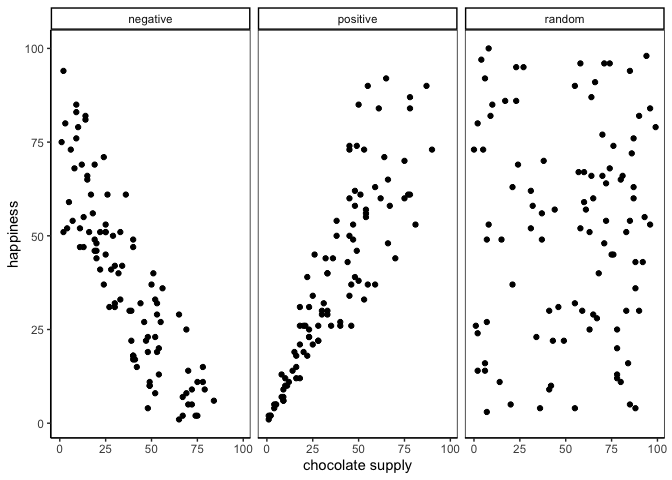
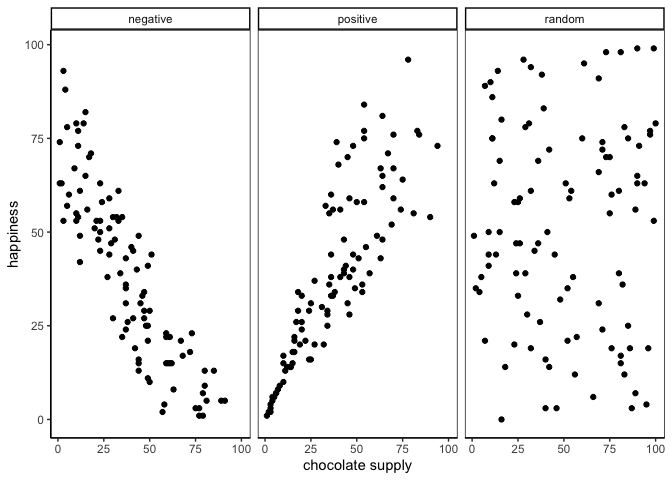
Updated html

diff --git a/docs/03-Correlation.html b/docs/03-Correlation.html
@@ -378,8 +378,8 @@ window.Quarto = {
 </tr>
 <tr class="even">
 <td style="text-align: right;">2</td>
-<td style="text-align: right;">2</td>
 <td style="text-align: right;">1</td>
+<td style="text-align: right;">2</td>
 </tr>
 <tr class="odd">
 <td style="text-align: right;">3</td>
@@ -389,7 +389,7 @@ window.Quarto = {
 <tr class="even">
 <td style="text-align: right;">4</td>
 <td style="text-align: right;">3</td>
-<td style="text-align: right;">4</td>
+<td style="text-align: right;">3</td>
 </tr>
 <tr class="odd">
 <td style="text-align: right;">5</td>
@@ -398,27 +398,27 @@ window.Quarto = {
 </tr>
 <tr class="even">
 <td style="text-align: right;">6</td>
-<td style="text-align: right;">6</td>
-<td style="text-align: right;">5</td>
+<td style="text-align: right;">4</td>
+<td style="text-align: right;">4</td>
 </tr>
 <tr class="odd">
 <td style="text-align: right;">7</td>
 <td style="text-align: right;">5</td>
-<td style="text-align: right;">6</td>
+<td style="text-align: right;">7</td>
 </tr>
 <tr class="even">
 <td style="text-align: right;">8</td>
+<td style="text-align: right;">8</td>
 <td style="text-align: right;">7</td>
-<td style="text-align: right;">4</td>
 </tr>
 <tr class="odd">
 <td style="text-align: right;">9</td>
-<td style="text-align: right;">5</td>
 <td style="text-align: right;">7</td>
+<td style="text-align: right;">9</td>
 </tr>
 <tr class="even">
 <td style="text-align: right;">10</td>
-<td style="text-align: right;">9</td>
+<td style="text-align: right;">6</td>
 <td style="text-align: right;">9</td>
 </tr>
 </tbody>
@@ -522,8 +522,8 @@ Note
 </tr>
 <tr class="even">
 <td style="text-align: left;">2</td>
-<td style="text-align: left;">2</td>
 <td style="text-align: left;">1</td>
+<td style="text-align: left;">2</td>
 <td style="text-align: left;">2</td>
 </tr>
 <tr class="odd">
@@ -535,8 +535,8 @@ Note
 <tr class="even">
 <td style="text-align: left;">4</td>
 <td style="text-align: left;">3</td>
-<td style="text-align: left;">4</td>
-<td style="text-align: left;">12</td>
+<td style="text-align: left;">3</td>
+<td style="text-align: left;">9</td>
 </tr>
 <tr class="odd">
 <td style="text-align: left;">5</td>
@@ -546,45 +546,45 @@ Note
 </tr>
 <tr class="even">
 <td style="text-align: left;">6</td>
-<td style="text-align: left;">6</td>
-<td style="text-align: left;">5</td>
-<td style="text-align: left;">30</td>
-</tr>
-<tr class="odd">
-<td style="text-align: left;">7</td>
-<td style="text-align: left;">5</td>
-<td style="text-align: left;">6</td>
-<td style="text-align: left;">30</td>
-</tr>
-<tr class="even">
-<td style="text-align: left;">8</td>
-<td style="text-align: left;">7</td>
 <td style="text-align: left;">4</td>
-<td style="text-align: left;">28</td>
+<td style="text-align: left;">4</td>
+<td style="text-align: left;">16</td>
 </tr>
 <tr class="odd">
-<td style="text-align: left;">9</td>
+<td style="text-align: left;">7</td>
 <td style="text-align: left;">5</td>
 <td style="text-align: left;">7</td>
 <td style="text-align: left;">35</td>
 </tr>
 <tr class="even">
+<td style="text-align: left;">8</td>
+<td style="text-align: left;">8</td>
+<td style="text-align: left;">7</td>
+<td style="text-align: left;">56</td>
+</tr>
+<tr class="odd">
+<td style="text-align: left;">9</td>
+<td style="text-align: left;">7</td>
+<td style="text-align: left;">9</td>
+<td style="text-align: left;">63</td>
+</tr>
+<tr class="even">
 <td style="text-align: left;">10</td>
+<td style="text-align: left;">6</td>
 <td style="text-align: left;">9</td>
-<td style="text-align: left;">9</td>
-<td style="text-align: left;">81</td>
+<td style="text-align: left;">54</td>
 </tr>
 <tr class="odd">
 <td style="text-align: left;">Sums</td>
-<td style="text-align: left;">44</td>
-<td style="text-align: left;">44</td>
-<td style="text-align: left;">243</td>
+<td style="text-align: left;">41</td>
+<td style="text-align: left;">49</td>
+<td style="text-align: left;">260</td>
 </tr>
 <tr class="even">
 <td style="text-align: left;">Means</td>
-<td style="text-align: left;">4.4</td>
-<td style="text-align: left;">4.4</td>
-<td style="text-align: left;">24.3</td>
+<td style="text-align: left;">4.1</td>
+<td style="text-align: left;">4.9</td>
+<td style="text-align: left;">26</td>
 </tr>
 </tbody>
 </table>
@@ -806,97 +806,97 @@ Figure&nbsp;3.3: Simulated sums of products showing the kinds of values than can
 <td style="text-align: left;">1</td>
 <td style="text-align: left;">1</td>
 <td style="text-align: left;">1</td>
-<td style="text-align: left;">-3.4</td>
-<td style="text-align: left;">-3.4</td>
-<td style="text-align: left;">11.56</td>
+<td style="text-align: left;">-3.1</td>
+<td style="text-align: left;">-3.9</td>
+<td style="text-align: left;">12.09</td>
 </tr>
 <tr class="even">
-<td style="text-align: left;">2</td>
 <td style="text-align: left;">2</td>
 <td style="text-align: left;">1</td>
-<td style="text-align: left;">-2.4</td>
-<td style="text-align: left;">-3.4</td>
-<td style="text-align: left;">8.16</td>
+<td style="text-align: left;">2</td>
+<td style="text-align: left;">-3.1</td>
+<td style="text-align: left;">-2.9</td>
+<td style="text-align: left;">8.99</td>
 </tr>
 <tr class="odd">
 <td style="text-align: left;">3</td>
 <td style="text-align: left;">2</td>
 <td style="text-align: left;">2</td>
-<td style="text-align: left;">-2.4</td>
-<td style="text-align: left;">-2.4</td>
-<td style="text-align: left;">5.76</td>
+<td style="text-align: left;">-2.1</td>
+<td style="text-align: left;">-2.9</td>
+<td style="text-align: left;">6.09</td>
 </tr>
 <tr class="even">
 <td style="text-align: left;">4</td>
 <td style="text-align: left;">3</td>
-<td style="text-align: left;">4</td>
-<td style="text-align: left;">-1.4</td>
-<td style="text-align: left;">-0.4</td>
-<td style="text-align: left;">0.56</td>
+<td style="text-align: left;">3</td>
+<td style="text-align: left;">-1.1</td>
+<td style="text-align: left;">-1.9</td>
+<td style="text-align: left;">2.09</td>
 </tr>
 <tr class="odd">
 <td style="text-align: left;">5</td>
 <td style="text-align: left;">4</td>
 <td style="text-align: left;">5</td>
-<td style="text-align: left;">-0.4</td>
-<td style="text-align: left;">0.6</td>
-<td style="text-align: left;">-0.24</td>
+<td style="text-align: left;">-0.1</td>
+<td style="text-align: left;">0.1</td>
+<td style="text-align: left;">-0.01</td>
 </tr>
 <tr class="even">
 <td style="text-align: left;">6</td>
-<td style="text-align: left;">6</td>
-<td style="text-align: left;">5</td>
-<td style="text-align: left;">1.6</td>
-<td style="text-align: left;">0.6</td>
-<td style="text-align: left;">0.96</td>
+<td style="text-align: left;">4</td>
+<td style="text-align: left;">4</td>
+<td style="text-align: left;">-0.1</td>
+<td style="text-align: left;">-0.9</td>
+<td style="text-align: left;">0.09</td>
 </tr>
 <tr class="odd">
 <td style="text-align: left;">7</td>
 <td style="text-align: left;">5</td>
-<td style="text-align: left;">6</td>
-<td style="text-align: left;">0.6</td>
-<td style="text-align: left;">1.6</td>
-<td style="text-align: left;">0.96</td>
+<td style="text-align: left;">7</td>
+<td style="text-align: left;">0.9</td>
+<td style="text-align: left;">2.1</td>
+<td style="text-align: left;">1.89</td>
 </tr>
 <tr class="even">
 <td style="text-align: left;">8</td>
+<td style="text-align: left;">8</td>
 <td style="text-align: left;">7</td>
-<td style="text-align: left;">4</td>
-<td style="text-align: left;">2.6</td>
-<td style="text-align: left;">-0.4</td>
-<td style="text-align: left;">-1.04</td>
+<td style="text-align: left;">3.9</td>
+<td style="text-align: left;">2.1</td>
+<td style="text-align: left;">8.19</td>
 </tr>
 <tr class="odd">
 <td style="text-align: left;">9</td>
-<td style="text-align: left;">5</td>
 <td style="text-align: left;">7</td>
-<td style="text-align: left;">0.6</td>
-<td style="text-align: left;">2.6</td>
-<td style="text-align: left;">1.56</td>
+<td style="text-align: left;">9</td>
+<td style="text-align: left;">2.9</td>
+<td style="text-align: left;">4.1</td>
+<td style="text-align: left;">11.89</td>
 </tr>
 <tr class="even">
 <td style="text-align: left;">10</td>
+<td style="text-align: left;">6</td>
 <td style="text-align: left;">9</td>
-<td style="text-align: left;">9</td>
-<td style="text-align: left;">4.6</td>
-<td style="text-align: left;">4.6</td>
-<td style="text-align: left;">21.16</td>
+<td style="text-align: left;">1.9</td>
+<td style="text-align: left;">4.1</td>
+<td style="text-align: left;">7.79</td>
 </tr>
 <tr class="odd">
 <td style="text-align: left;">Sums</td>
-<td style="text-align: left;">44</td>
-<td style="text-align: left;">44</td>
-<td style="text-align: left;">0</td>
-<td style="text-align: left;">0</td>
+<td style="text-align: left;">41</td>
 <td style="text-align: left;">49</td>
+<td style="text-align: left;">0</td>
+<td style="text-align: left;">0</td>
+<td style="text-align: left;">59</td>
 </tr>
 <tr class="even">
 <td style="text-align: left;">Means</td>
-<td style="text-align: left;">4.4</td>
-<td style="text-align: left;">4.4</td>
+<td style="text-align: left;">4.1</td>
+<td style="text-align: left;">4.9</td>
 <td style="text-align: left;">0</td>
 <td style="text-align: left;">0</td>
-<td style="text-align: left;">4.94</td>
+<td style="text-align: left;">5.91</td>
 </tr>
 </tbody>
 </table>
